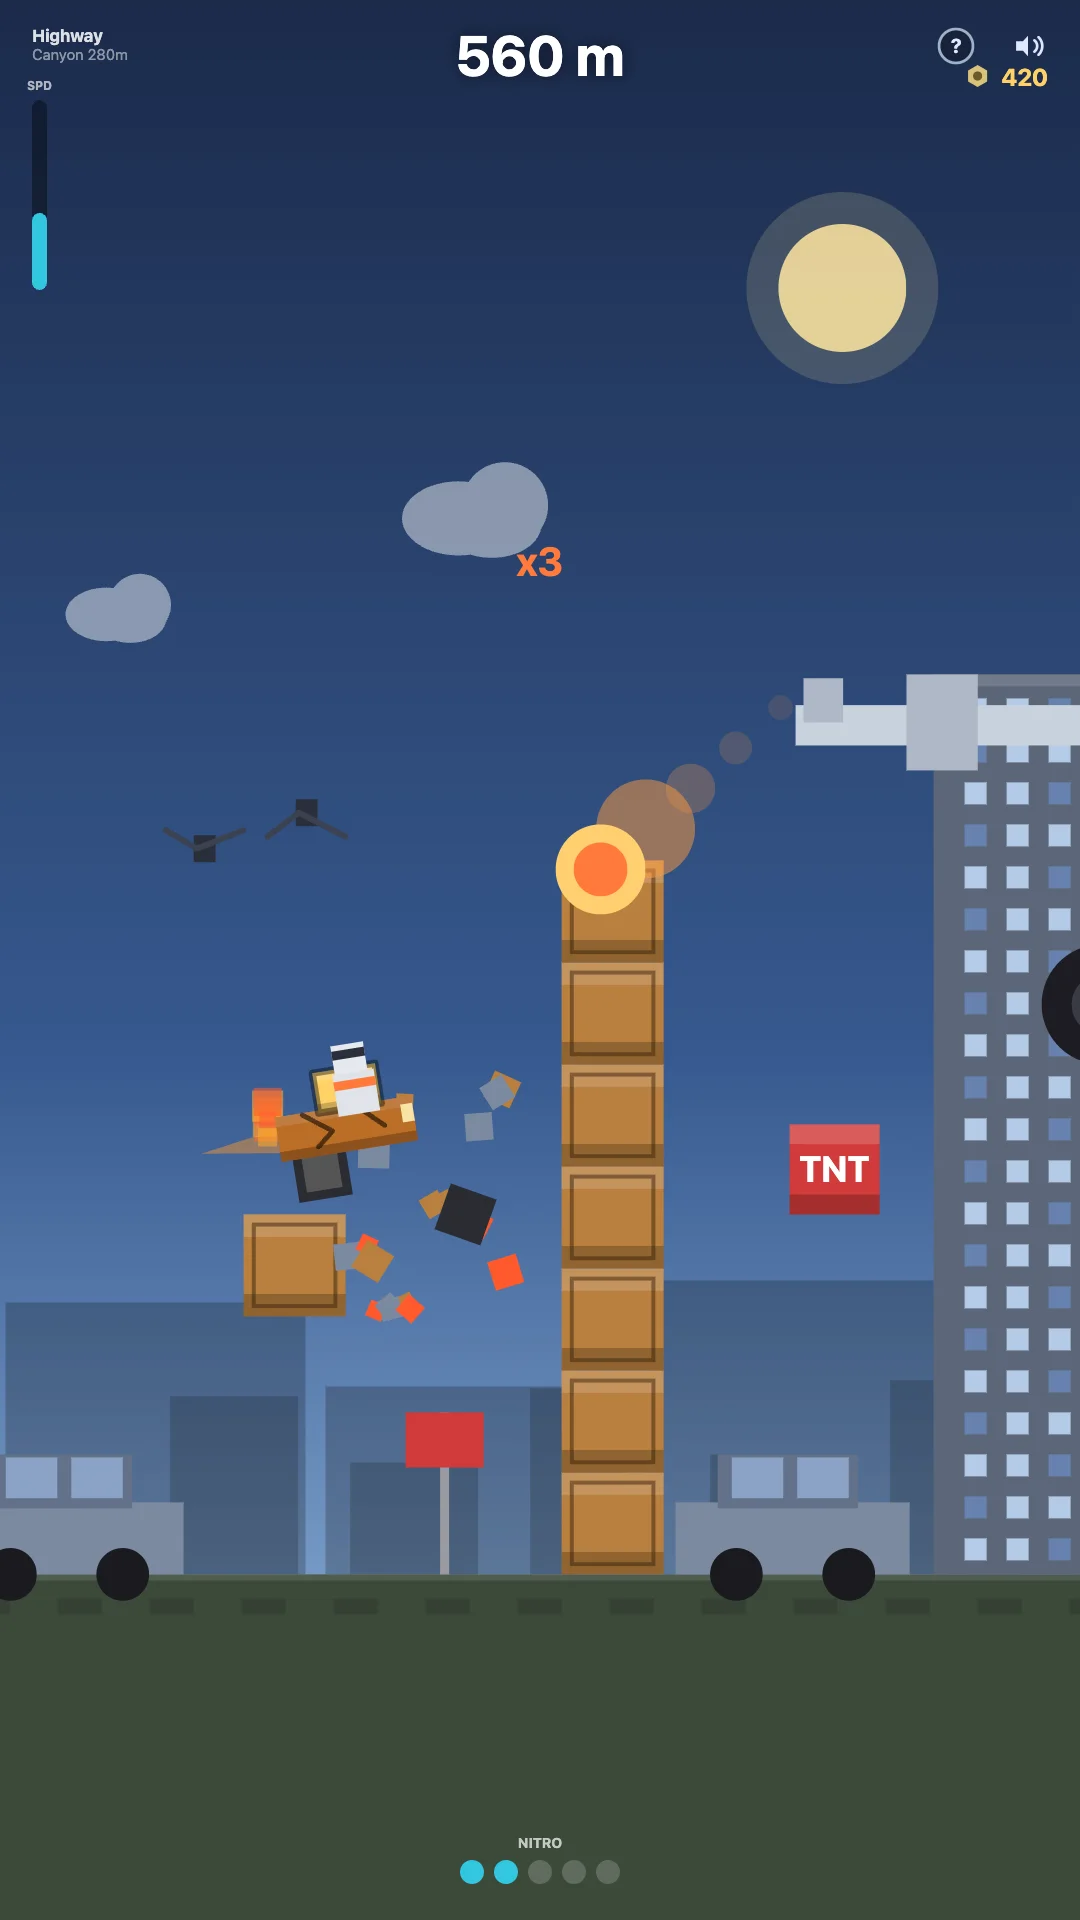
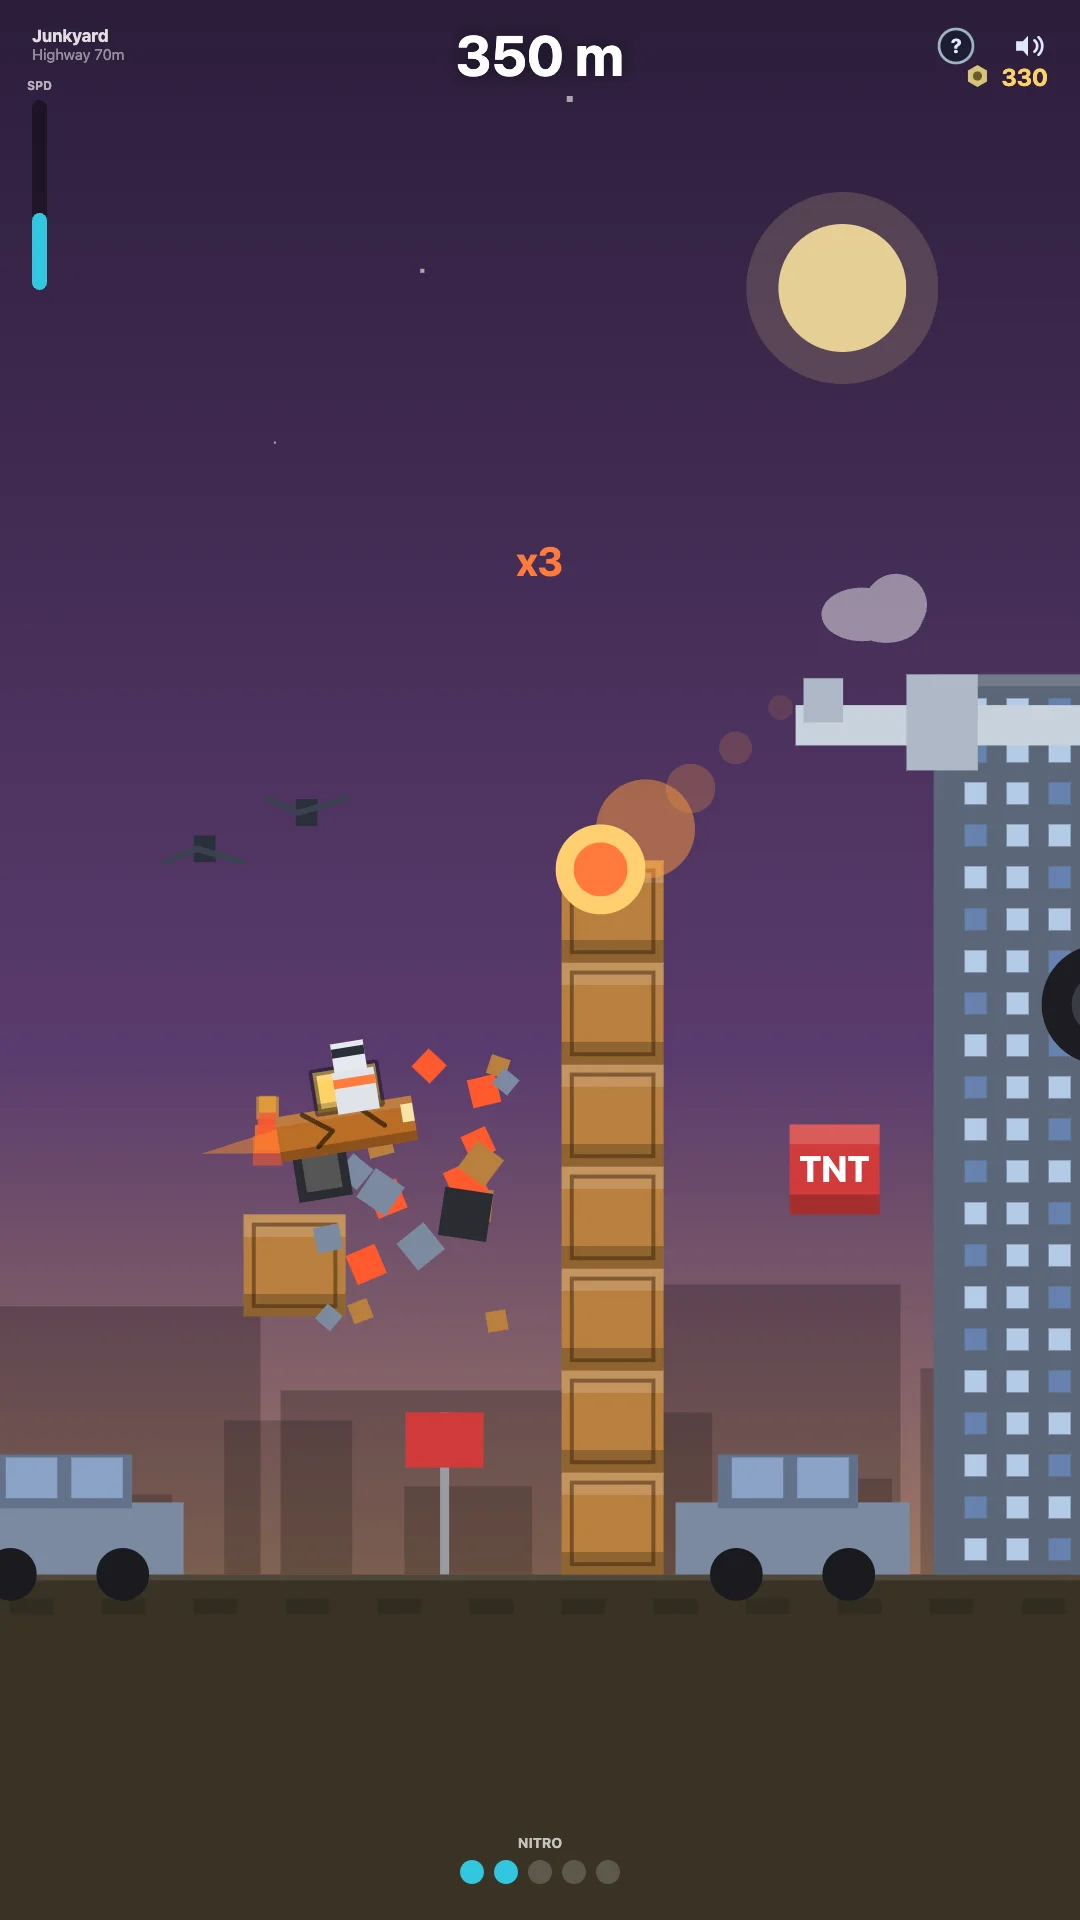
Crash Buggy: per-car upgrades + daily-car streak chain (progression depth)
Tim: 'upgraded everything in 10 min' + 'upgrades separate per car' + 'next day
return = new car, 1 week daily = super mega car'.
- PER-CAR upgrades: Engine/Nitro/Armor/Wheels/Ramp are now a separate tree per
  car (11 cars), so each unlock opens a fresh grind. Garage shows the current
  car's tree under its name. Old global upgrades migrate to the buggy's tree.
- DAILY-CAR CHAIN: 7 hidden cars unlocked by consecutive daily returns (Pink Dart
  day 1 ... Mega GT day 7 = super mega). Miss a day -> streak resets, so the Mega
  GT needs a full week of daily play. Garage grid shows all 11 cars + day labels.
- Save migration preserves existing progress (verified).

(Queued: collectible/equippable map parts; prestige reset.)

diff --git a/games/crash_buggy/index.html b/games/crash_buggy/index.html
@@ -35,6 +35,8 @@ var STRINGS = {
     newRide: 'NEW RIDE UNLOCKED!', speed: 'SPD',
     up_engine: 'Engine', up_nitro: 'Nitro', up_armor: 'Armor', up_wheels: 'Wheels', up_ramp: 'Ramp',
     veh_buggy: 'Junk Buggy', veh_muscle: 'Muscle Car', veh_truck: 'Monster Truck', veh_sled: 'Rocket Sled',
+    veh_d1: 'Pink Dart', veh_d2: 'Green Hopper', veh_d3: 'Blue Bruiser', veh_d4: 'Gold Rush', veh_d5: 'Violet Bolt', veh_d6: 'Red Titan', veh_d7: 'Mega GT',
+    dayLabel: 'Day',
     z0: 'Junkyard', z1: 'Highway', z2: 'Canyon', z3: 'City', z4: 'Sky High',
     z5: 'Volcano', z6: 'Frostlands', z7: 'Deep Space',
     howto: 'How to play', gotit: 'GOT IT',
@@ -57,6 +59,8 @@ var STRINGS = {
     newRide: 'НОВАЯ ТАЧКА!', speed: 'СКОР',
     up_engine: 'Двигатель', up_nitro: 'Нитро', up_armor: 'Броня', up_wheels: 'Колёса', up_ramp: 'Трамплин',
     veh_buggy: 'Багги', veh_muscle: 'Маслкар', veh_truck: 'Монстр-Трак', veh_sled: 'Ракета',
+    veh_d1: 'Стрела', veh_d2: 'Прыгун', veh_d3: 'Танк', veh_d4: 'Золото', veh_d5: 'Молния', veh_d6: 'Титан', veh_d7: 'Мега ГТ',
+    dayLabel: 'День',
     z0: 'Свалка', z1: 'Шоссе', z2: 'Каньон', z3: 'Город', z4: 'Небеса',
     z5: 'Вулкан', z6: 'Льды', z7: 'Космос',
     howto: 'Как играть', gotit: 'ПОНЯТНО',
@@ -94,10 +98,14 @@ var BUGGY_W = 46, BUGGY_H = 30, WHEEL_R = 9;
 // ── PERSISTENT META (saved across sessions) ───────────────────────────────
 var meta = {
   scrap: 0, bestDist: 0, totalDist: 0,
-  up: { engine: 0, nitro: 0, armor: 0, wheels: 0, ramp: 0 },
+  carUp: {},                 // PER-CAR upgrades: carUp[carId] = {engine,nitro,armor,wheels,ramp}
   vehicle: 'buggy',
+  ownedDaily: [],            // daily-streak car ids the player has unlocked
   daily: { last: '', streak: 0 },
 };
+function freshUp() { return { engine: 0, nitro: 0, armor: 0, wheels: 0, ramp: 0 }; }
+function ensureCarUp(id) { if (!meta.carUp[id]) meta.carUp[id] = freshUp(); return meta.carUp[id]; }
+function curUp() { return ensureCarUp(meta.vehicle); }
 function loadMeta() {
   try {
     var raw = localStorage.getItem('crash_buggy_meta_v1');
@@ -105,12 +113,18 @@ function loadMeta() {
       var s = JSON.parse(raw);
       if (s && typeof s === 'object') {
         meta.scrap = s.scrap | 0; meta.bestDist = s.bestDist | 0; meta.totalDist = s.totalDist | 0;
-        if (s.up) for (var k in meta.up) if (typeof s.up[k] === 'number') meta.up[k] = s.up[k] | 0;
         if (typeof s.vehicle === 'string') meta.vehicle = s.vehicle;
         if (s.daily) { meta.daily.last = s.daily.last || ''; meta.daily.streak = s.daily.streak | 0; }
+        if (Array.isArray(s.ownedDaily)) meta.ownedDaily = s.ownedDaily.slice();
+        if (s.carUp && typeof s.carUp === 'object') {       // v2 per-car upgrades
+          for (var id in s.carUp) { var u = freshUp(); for (var k in u) if (typeof s.carUp[id][k] === 'number') u[k] = s.carUp[id][k] | 0; meta.carUp[id] = u; }
+        } else if (s.up && typeof s.up === 'object') {       // migrate v1 global upgrades -> the buggy's tree
+          var bu = freshUp(); for (var k2 in bu) if (typeof s.up[k2] === 'number') bu[k2] = s.up[k2] | 0; meta.carUp.buggy = bu;
+        }
       }
     }
   } catch (e) {}
+  ensureCarUp('buggy'); ensureCarUp(meta.vehicle);
 }
 function saveMeta() { try { localStorage.setItem('crash_buggy_meta_v1', JSON.stringify(meta)); } catch (e) {} }
 
@@ -122,27 +136,39 @@ var UPGRADES = [
   { key: 'wheels', max: 6, base: 105, growth: 1.55 },
   { key: 'ramp',   max: 5, base: 150, growth: 1.62 },
 ];
-function upCost(u) { return Math.floor(u.base * Math.pow(u.growth, meta.up[u.key])); }
-function upMaxed(u) { return meta.up[u.key] >= u.max; }
+function upCost(u) { return Math.floor(u.base * Math.pow(u.growth, curUp()[u.key])); }
+function upMaxed(u) { return curUp()[u.key] >= u.max; }
 
+// distance-unlocked vehicles
 var VEHICLES = [
   { id: 'buggy',  unlock: 0,     launchMul: 1.00, bounceMul: 1.00, armorAdd: 0, nitroAdd: 0, body: '#e8862e', accent: '#ffd166', wheel: '#2b2b33' },
   { id: 'muscle', unlock: 2000,  launchMul: 1.18, bounceMul: 0.92, armorAdd: 1, nitroAdd: 0, body: '#d23b3b', accent: '#ffe0e0', wheel: '#1d1d24' },
   { id: 'truck',  unlock: 7000,  launchMul: 1.00, bounceMul: 1.38, armorAdd: 2, nitroAdd: 1, body: '#3fae5a', accent: '#bff0c8', wheel: '#15151b' },
   { id: 'sled',   unlock: 18000, launchMul: 1.46, bounceMul: 0.82, armorAdd: 0, nitroAdd: 2, body: '#33c6e0', accent: '#e6fbff', wheel: '#16323a' },
 ];
-function vehById(id) { for (var i = 0; i < VEHICLES.length; i++) if (VEHICLES[i].id === id) return VEHICLES[i]; return VEHICLES[0]; }
-function vehUnlocked(v) { return meta.totalDist >= v.unlock; }
+// DAILY-STREAK vehicles — return each day to unlock the next; day 7 = super mega.
+var DAILY_CARS = [
+  { id: 'd1', daily: 1, launchMul: 1.12, bounceMul: 1.06, armorAdd: 0, nitroAdd: 1, body: '#e84393', accent: '#ffd6ec', wheel: '#2b2b33' },
+  { id: 'd2', daily: 2, launchMul: 1.04, bounceMul: 1.30, armorAdd: 1, nitroAdd: 0, body: '#00b894', accent: '#c8fff0', wheel: '#15151b' },
+  { id: 'd3', daily: 3, launchMul: 1.10, bounceMul: 1.06, armorAdd: 2, nitroAdd: 1, body: '#0984e3', accent: '#cfeaff', wheel: '#16323a' },
+  { id: 'd4', daily: 4, launchMul: 1.26, bounceMul: 1.02, armorAdd: 1, nitroAdd: 1, body: '#fdcb6e', accent: '#fff3cf', wheel: '#3a2b00' },
+  { id: 'd5', daily: 5, launchMul: 1.32, bounceMul: 1.12, armorAdd: 1, nitroAdd: 2, body: '#a29bfe', accent: '#ece9ff', wheel: '#1d1d24' },
+  { id: 'd6', daily: 6, launchMul: 1.32, bounceMul: 1.32, armorAdd: 3, nitroAdd: 2, body: '#ff7675', accent: '#ffe0e0', wheel: '#1d1d24' },
+  { id: 'd7', daily: 7, launchMul: 1.62, bounceMul: 1.30, armorAdd: 3, nitroAdd: 3, body: '#ffd700', accent: '#fff3b0', wheel: '#2b2b33' },
+];
+var ALL_CARS = VEHICLES.concat(DAILY_CARS);
+function vehById(id) { for (var i = 0; i < ALL_CARS.length; i++) if (ALL_CARS[i].id === id) return ALL_CARS[i]; return ALL_CARS[0]; }
+function vehUnlocked(v) { return v.daily != null ? meta.ownedDaily.indexOf(v.id) >= 0 : meta.totalDist >= v.unlock; }
 function curVeh() { return vehById(meta.vehicle); }
 
-// effective stats (vehicle + upgrades)
-function statLaunch() { return (LAUNCH_BASE + meta.up.engine * LAUNCH_PER_LVL) * curVeh().launchMul; }
-function statNitroMax() { return NITRO_BASE + meta.up.nitro + curVeh().nitroAdd; }
-function statBounce() { return Math.min(0.78, (BOUNCE + meta.up.wheels * 0.035) * curVeh().bounceMul); }
-function statRollKeep() { return Math.min(0.988, 0.86 + meta.up.wheels * 0.016); }
-function statArmor() { return ARMOR_BASE + meta.up.armor + curVeh().armorAdd; }
-function statAngle() { return Math.min(1.18, LAUNCH_ANGLE + meta.up.ramp * 0.02); }
-function statMaxSpeed() { return (MAX_SPEED_BASE + meta.up.engine * MAX_SPEED_PER) * curVeh().launchMul; }
+// effective stats (current vehicle + ITS OWN upgrade tree)
+function statLaunch() { return (LAUNCH_BASE + curUp().engine * LAUNCH_PER_LVL) * curVeh().launchMul; }
+function statNitroMax() { return NITRO_BASE + curUp().nitro + curVeh().nitroAdd; }
+function statBounce() { return Math.min(0.82, (BOUNCE + curUp().wheels * 0.035) * curVeh().bounceMul); }
+function statRollKeep() { return Math.min(0.988, 0.86 + curUp().wheels * 0.016); }
+function statArmor() { return ARMOR_BASE + curUp().armor + curVeh().armorAdd; }
+function statAngle() { return Math.min(1.18, LAUNCH_ANGLE + curUp().ramp * 0.02); }
+function statMaxSpeed() { return (MAX_SPEED_BASE + curUp().engine * MAX_SPEED_PER) * curVeh().launchMul; }
 function clampSpeed() {                 // hard speed ceiling — nitro/launch can't exceed it (caps how high you fly)
   var mx = statMaxSpeed(), sp = Math.sqrt(buggy.vx * buggy.vx + buggy.vy * buggy.vy);
   if (sp > mx) { var f = mx / sp; buggy.vx *= f; buggy.vy *= f; }
@@ -161,7 +187,7 @@ var camX = 0, camY = 0, camScale = 1, scl = 1;
 var bannerT = 0, nitroHint = false, nitroHintT = 0, launchFlash = 0;
 var tally = { dist: 0, smashes: 0, comboBonus: 0, scrap: 0, t: 0, best: false };
 var seenTut = false, helpOpen = false;
-var flashScrap = 0, flashScrapT = 0;
+var flashScrap = 0, flashScrapT = 0, flashCar = '', flashCarT = 0;
 var _pendingAd = false;
 
 var rr = GF.rr, clamp = GF.clamp, lerp = GF.lerp;
@@ -929,8 +955,13 @@ function claimDaily() {
   if (prev) { try { var pd = new Date(prev), td = new Date(today); cont = Math.round((td - pd) / 86400000) === 1; } catch (e) {} }
   streak = cont ? streak + 1 : 1;
   var reward = Math.min(400, 60 + (streak - 1) * 40);
-  meta.daily.last = today; meta.daily.streak = streak; meta.scrap += reward; saveMeta();
+  meta.daily.last = today; meta.daily.streak = streak; meta.scrap += reward;
+  // grant the daily-streak car for this day (1..7) — return daily for a week to earn the Mega GT
+  var day = Math.min(7, streak), dcar = DAILY_CARS[day - 1], gotCar = false;
+  if (dcar && meta.ownedDaily.indexOf(dcar.id) < 0) { meta.ownedDaily.push(dcar.id); ensureCarUp(dcar.id); gotCar = true; }
+  saveMeta();
   GF.sfx('reward'); flashScrap = reward; flashScrapT = 1.6;
+  if (gotCar) { GF.sfx('unlock'); flashCar = dcar.id; flashCarT = 2.6; }
 }
 
 // ── GARAGE ────────────────────────────────────────────────────────────────
@@ -954,12 +985,16 @@ function drawGarage(c) {
 
   if (!garageScroll) garageScroll = GF.makeScroll('garage', { x: L.vpX, y: L.vpY, w: L.vpW, h: L.vpH });
   var sc = garageScroll; sc.setViewport({ x: L.vpX, y: L.vpY, w: L.vpW, h: L.vpH }); sc.update();
-  var vehStripH = clamp(108 * S, 84, 140), rowH = clamp(62 * S, 50, 82), rowGap = 8 * S;
-  sc.setContentHeight(vehStripH + 10 * S + UPGRADES.length * (rowH + rowGap) + 16 * S);
+  var rowH = clamp(62 * S, 50, 82), rowGap = 8 * S, gridH = vehGridDims(L.vpW - 8 * S).totalH;
+  sc.setContentHeight(gridH + 34 * S + UPGRADES.length * (rowH + rowGap) + 16 * S);
   sc.begin(c);
   var cy = 6 * S;
-  drawVehicleStrip(c, L.vpX + 4 * S, cy, L.vpW - 8 * S, vehStripH);
-  cy += vehStripH + 10 * S;
+  drawVehicleGrid(c, L.vpX + 4 * S, cy, L.vpW - 8 * S);
+  cy += gridH + 14 * S;
+  // per-car upgrade header — upgrades are SEPARATE for each car
+  c.textAlign = 'left'; c.textBaseline = 'middle'; c.fillStyle = '#7ed957'; c.font = 'bold ' + clamp(13 * S, 11, 17) + 'px Inter, system-ui, sans-serif';
+  c.fillText(GF.t('veh_' + meta.vehicle), L.vpX + 10 * S, cy + 4 * S); c.textBaseline = 'alphabetic';
+  cy += 22 * S;
   for (var i = 0; i < UPGRADES.length; i++) { drawUpgradeRow(c, UPGRADES[i], L.vpX + 4 * S, cy, L.vpW - 8 * S, rowH); cy += rowH + rowGap; }
   sc.end(c); sc.draw(c);
 
@@ -973,22 +1008,37 @@ function drawGarage(c) {
     c.globalAlpha = Math.min(1, flashScrapT); c.textAlign = 'center'; c.fillStyle = '#ffd166'; c.font = 'bold ' + clamp(22 * S, 16, 30) + 'px Inter, system-ui, sans-serif';
     c.fillText('+' + flashScrap + ' ' + GF.t('scrap'), W / 2, fy - 8 * S); c.globalAlpha = 1;
   }
-}
-function drawVehicleStrip(c, x, y, w, h) {
-  var S = GF.S, n = VEHICLES.length, gap = 6 * S, cw = (w - gap * (n - 1)) / n;
-  for (var i = 0; i < n; i++) {
-    var v = VEHICLES[i], cx0 = x + i * (cw + gap), unlocked = vehUnlocked(v), sel = meta.vehicle === v.id;
-    c.fillStyle = sel ? '#243a2a' : '#1c2233'; rr(c, cx0, y, cw, h, 8 * S); c.fill();
-    if (sel) { c.strokeStyle = '#7ed957'; c.lineWidth = 2.5 * S; rr(c, cx0, y, cw, h, 8 * S); c.stroke(); }
-    c.save(); c.globalAlpha = unlocked ? 1 : 0.35; drawMiniBuggyColored(c, cx0 + cw / 2, y + h * 0.40, clamp(1.0 * S, 0.7, 1.5), v); c.globalAlpha = 1; c.restore();
-    c.textAlign = 'center'; c.textBaseline = 'middle';
-    c.fillStyle = unlocked ? '#cdd6e6' : '#6a7488'; c.font = 'bold ' + clamp(11 * S, 9, 14) + 'px Inter, system-ui, sans-serif';
-    c.fillText(GF.t('veh_' + v.id), cx0 + cw / 2, y + h - 24 * S);
-    if (!unlocked) { c.fillStyle = '#8a93a8'; c.font = clamp(9 * S, 8, 12) + 'px Inter, system-ui, sans-serif'; c.fillText(v.unlock + GF.t('dist'), cx0 + cw / 2, y + h - 10 * S); }
-    else if (sel) { c.fillStyle = '#7ed957'; c.font = 'bold ' + clamp(9 * S, 8, 12) + 'px Inter, system-ui, sans-serif'; c.fillText(GF.t('equipped'), cx0 + cw / 2, y + h - 10 * S); }
-    c.textBaseline = 'alphabetic';
-    garageRows.push({ x: cx0, y: y, w: cw, h: h, kind: 'veh', id: v.id });
+  if (flashCarT > 0) {
+    flashCarT -= 1 / 60;
+    c.globalAlpha = Math.min(1, flashCarT); c.textAlign = 'center'; c.fillStyle = '#ffd700';
+    c.font = 'bold ' + clamp(20 * S, 15, 28) + 'px Inter, system-ui, sans-serif';
+    c.fillText(GF.t('newRide') + ' ' + GF.t('veh_' + flashCar), W / 2, fy - 30 * S); c.globalAlpha = 1;
   }
+}
+function vehGridDims(w) {
+  var S = GF.S, cols = 4, gap = 6 * S, cw = (w - gap * (cols - 1)) / cols, ch = clamp(84 * S, 64, 108);
+  var rows = Math.ceil(ALL_CARS.length / cols);
+  return { cols: cols, gap: gap, cw: cw, ch: ch, rows: rows, totalH: rows * ch + (rows - 1) * gap };
+}
+function drawVehicleGrid(c, x, y, w) {
+  var S = GF.S, d = vehGridDims(w);
+  for (var i = 0; i < ALL_CARS.length; i++) {
+    var v = ALL_CARS[i], cx0 = x + (i % d.cols) * (d.cw + d.gap), cy0 = y + Math.floor(i / d.cols) * (d.ch + d.gap);
+    var unlocked = vehUnlocked(v), sel = meta.vehicle === v.id;
+    c.fillStyle = sel ? '#243a2a' : '#1c2233'; rr(c, cx0, cy0, d.cw, d.ch, 7 * S); c.fill();
+    if (sel) { c.strokeStyle = '#7ed957'; c.lineWidth = 2.4 * S; rr(c, cx0, cy0, d.cw, d.ch, 7 * S); c.stroke(); }
+    else if (v.daily != null && unlocked) { c.strokeStyle = '#ffd700'; c.lineWidth = 1.6 * S; rr(c, cx0, cy0, d.cw, d.ch, 7 * S); c.stroke(); }
+    c.save(); c.globalAlpha = unlocked ? 1 : 0.3; drawMiniBuggyColored(c, cx0 + d.cw / 2, cy0 + d.ch * 0.36, clamp(0.78 * S, 0.5, 1.15), v); c.globalAlpha = 1; c.restore();
+    c.textAlign = 'center'; c.textBaseline = 'middle';
+    c.fillStyle = unlocked ? '#cdd6e6' : '#6a7488'; c.font = 'bold ' + clamp(10 * S, 8, 13) + 'px Inter, system-ui, sans-serif';
+    c.fillText(GF.t('veh_' + v.id), cx0 + d.cw / 2, cy0 + d.ch - 21 * S);
+    c.font = clamp(8.5 * S, 7, 11) + 'px Inter, system-ui, sans-serif';
+    if (!unlocked) { c.fillStyle = '#8a93a8'; c.fillText(v.daily != null ? (GF.t('dayLabel') + ' ' + v.daily) : (v.unlock + GF.t('dist')), cx0 + d.cw / 2, cy0 + d.ch - 8 * S); }
+    else if (sel) { c.fillStyle = '#7ed957'; c.fillText(GF.t('equipped'), cx0 + d.cw / 2, cy0 + d.ch - 8 * S); }
+    c.textBaseline = 'alphabetic';
+    garageRows.push({ x: cx0, y: cy0, w: d.cw, h: d.ch, kind: 'veh', id: v.id });
+  }
+  return d.totalH;
 }
 function drawUpgradeRow(c, u, x, y, w, h) {
   var S = GF.S;
@@ -996,7 +1046,7 @@ function drawUpgradeRow(c, u, x, y, w, h) {
   c.textAlign = 'left'; c.textBaseline = 'middle'; c.fillStyle = '#fff'; c.font = 'bold ' + clamp(15 * S, 12, 20) + 'px Inter, system-ui, sans-serif';
   c.fillText(GF.t('up_' + u.key), x + 14 * S, y + h * 0.34);
   var pipR = clamp(4.5 * S, 3.5, 6.5), pgap = clamp(5 * S, 4, 8), px0 = x + 14 * S;
-  for (var i = 0; i < u.max; i++) { c.beginPath(); c.arc(px0 + i * (pipR * 2 + pgap) + pipR, y + h * 0.7, pipR, 0, 6.28); c.fillStyle = i < meta.up[u.key] ? '#7ed957' : 'rgba(255,255,255,0.16)'; c.fill(); }
+  for (var i = 0; i < u.max; i++) { c.beginPath(); c.arc(px0 + i * (pipR * 2 + pgap) + pipR, y + h * 0.7, pipR, 0, 6.28); c.fillStyle = i < curUp()[u.key] ? '#7ed957' : 'rgba(255,255,255,0.16)'; c.fill(); }
   var bw = clamp(96 * S, 74, 130), bh = h - 16 * S, bx = x + w - bw - 10 * S, by = y + 8 * S;
   var maxed = upMaxed(u), cost = upCost(u), afford = meta.scrap >= cost;
   c.fillStyle = maxed ? '#2a3550' : (afford ? '#2f7d3e' : '#3a3550'); rr(c, bx, by, bw, bh, 8 * S); c.fill();
@@ -1011,12 +1061,12 @@ function buyUpgrade(key) {
   if (!u || upMaxed(u)) { GF.sfx('error'); return; }
   var cost = upCost(u);
   if (meta.scrap < cost) { GF.sfx('error'); return; }
-  meta.scrap -= cost; meta.up[key]++; saveMeta(); GF.sfx('levelup');
+  meta.scrap -= cost; curUp()[key]++; saveMeta(); GF.sfx('levelup');
 }
 function equipVehicle(id) {
   var v = vehById(id);
   if (!vehUnlocked(v)) { GF.sfx('error'); return; }
-  meta.vehicle = id; saveMeta(); GF.sfx('unlock');
+  meta.vehicle = id; ensureCarUp(id); saveMeta(); GF.sfx('unlock');
 }
 
 // ── RUN-END TALLY ─────────────────────────────────────────────────────────
@@ -1160,7 +1210,7 @@ window._setupForScreenshot = function (level) {
   window._silent = true; seenTut = true; helpOpen = false;
   var lv = level || 3;
   meta.totalDist = Math.max(meta.totalDist, 2000);
-  meta.up.engine = Math.max(meta.up.engine, 4); meta.up.nitro = Math.max(meta.up.nitro, 2);
+  var su = ensureCarUp(meta.vehicle); su.engine = Math.max(su.engine, 4); su.nitro = Math.max(su.nitro, 2);
   resetRun();
   gs = 'PLAYING'; phase = 'FLIGHT';
   dist = 140 + lv * 70; zoneIdx = zoneOf(dist); prevZoneIdx = zoneIdx;
@@ -1244,8 +1294,8 @@ GF.init({
         zoneIdx: zoneIdx, zone: GF.t('z' + zoneIdx), props: props.length, debris: debris.length,
         dmg: +buggy.dmg.toFixed(2), partsLeft: (buggy.parts.wheelF + buggy.parts.wheelR + buggy.parts.cabin + buggy.parts.driver),
         spd: Math.round(Math.sqrt(buggy.vx * buggy.vx + buggy.vy * buggy.vy)), height: Math.round(-buggy.y), maxSpeed: Math.round(statMaxSpeed()),
-        vehicle: meta.vehicle, up: meta.up, seenTut: seenTut,
-        unlockedVehicles: VEHICLES.filter(vehUnlocked).map(function (v) { return v.id; }),
+        vehicle: meta.vehicle, up: curUp(), seenTut: seenTut, dailyStreak: meta.daily.streak, ownedDaily: meta.ownedDaily.length,
+        unlockedVehicles: ALL_CARS.filter(vehUnlocked).map(function (v) { return v.id; }),
         GRAVITY: GRAVITY, LAUNCH_BASE: LAUNCH_BASE, LAUNCH_PER_LVL: LAUNCH_PER_LVL, NITRO_FORCE: NITRO_FORCE,
         BOUNCE: BOUNCE, ZONE_STEP: ZONE_STEP, SCRAP_PER_M: SCRAP_PER_M,
         statLaunch: Math.round(statLaunch()), statBounce: +statBounce().toFixed(2), statArmor: statArmor(),

diff --git a/functions/_data/publish-status.js b/functions/_data/publish-status.js
@@ -1,5 +1,5 @@
 export default {
-  "generated": "2026-06-07T18:53:27.537954+00:00",
+  "generated": "2026-06-09T20:17:25.202530+00:00",
   "core_platforms": [
     "yandex",
     "crazygames",
@@ -173,9 +173,9 @@ export default {
       "engagement": null,
       "platforms": {
         "yandex": {
-          "submittedOn": "2026-05-20",
+          "submittedOn": "2026-06-09",
           "rejectedOn": "2026-06-06",
-          "status": "rejected"
+          "status": "submitted"
         },
         "crazygames": {
           "status": "not_started"
@@ -308,7 +308,7 @@ export default {
         "plays7d": 3,
         "likes": 2,
         "dislikes": 0,
-        "seconds": 635,
+        "seconds": 160,
         "genre": "other"
       },
       "platforms": {
@@ -339,7 +339,7 @@ export default {
         "plays7d": 5,
         "likes": 1,
         "dislikes": 0,
-        "seconds": 665,
+        "seconds": 430,
         "genre": "merge"
       },
       "platforms": {
@@ -697,9 +697,45 @@ export default {
         "gamedistribution",
         "gamepush"
       ]
+    },
+    "parry_core": {
+      "gameDir": "Games/102_parry_core",
+      "engagement": null,
+      "platforms": {
+        "yandex": {
+          "submittedOn": "2026-06-09",
+          "status": "submitted"
+        },
+        "crazygames": {
+          "status": "not_started"
+        },
+        "gamedistribution": {
+          "status": "not_started"
+        },
+        "gamepush": {
+          "status": "not_started"
+        }
+      },
+      "other": null,
+      "readyPlatforms": [
+        "crazygames",
+        "gamedistribution",
+        "gamepush"
+      ]
     }
   },
   "untracked": [
+    {
+      "slug": "crash_buggy",
+      "folder": "152_crash_buggy",
+      "engagement": {
+        "plays7d": 3,
+        "likes": 1,
+        "dislikes": 0,
+        "seconds": 440,
+        "genre": "other"
+      }
+    },
     {
       "slug": "merge_diner",
       "folder": "132_merge_diner",
@@ -765,25 +801,14 @@ export default {
         "seconds": 180,
         "genre": "racing"
       }
-    },
-    {
-      "slug": "spell_or_spoil",
-      "folder": "127_spell_or_spoil",
-      "engagement": {
-        "plays7d": 2,
-        "likes": 0,
-        "dislikes": 1,
-        "seconds": 145,
-        "genre": "other"
-      }
     }
   ],
   "summary": {
     "yandex": {
       "live": 4,
       "approved": 0,
-      "submitted": 18,
-      "rejected": 2,
+      "submitted": 20,
+      "rejected": 1,
       "built": 1
     },
     "crazygames": {